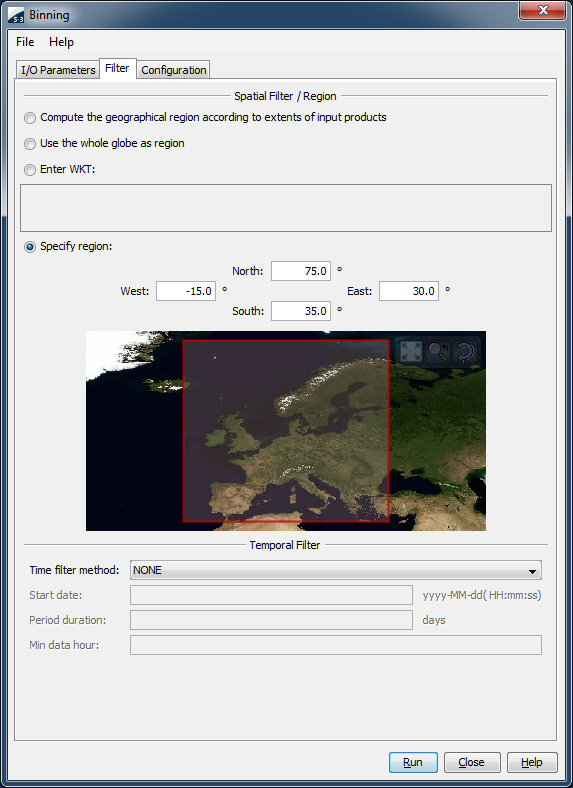
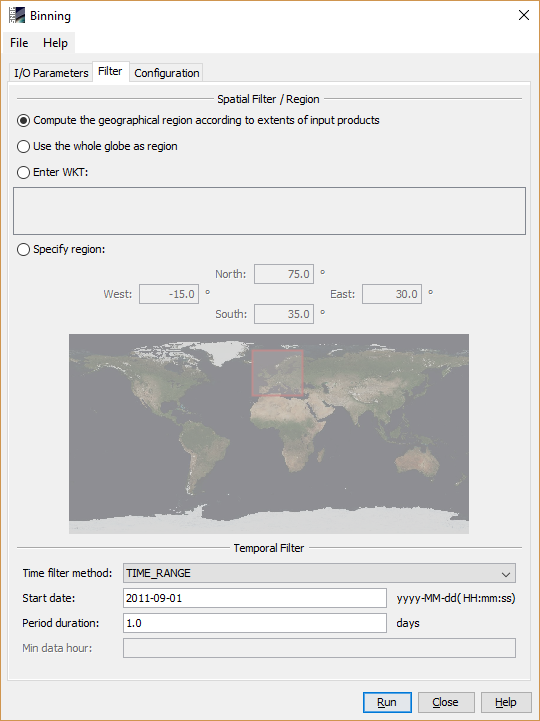
update images fo binning help and a little text update

diff --git a/snap-binning-ui/src/main/resources/org/esa/snap/binning/docs/binning/user_interface.html b/snap-binning-ui/src/main/resources/org/esa/snap/binning/docs/binning/user_interface.html
@@ -26,8 +26,9 @@
         <td class="header">&nbsp;
             Level 3 Binning Operator
         </td>
-        <td class="header" align="right"><a href="nbdocs://org.esa.snap.snap.help/org/esa/snap/snap/help/docs/general/overview/SnapOverview.html"><img src="../images/snap_header.jpg"
-                                                                                     border=0></a>
+        <td class="header" align="right"><a href="nbdocs://org.esa.snap.snap.help/org/esa/snap/snap/help/docs/general/overview/SnapOverview.html"><img
+                src="../images/snap_header.jpg"
+                border=0></a>
         </td>
     </tr>
 </table>
@@ -46,10 +47,13 @@
     <img src="images/ui-io-parameters.png">
 </p>
 
-<p>
-    When the Run-button is clicked, the binning is performed according to the preferences that are specified in the
-    "Filter-" and the "Configuration"-tabs.
-</p>
+The <b>Plus</b>-button allows to add products to the binning process.
+<ul>
+    <li><b><i>Add product(s)</i></b> - Allows to add already opened products</li>
+    <li><b><i>Add product file(s)</i></b> - Allows to add specific files from the file system</li>
+    <li><b><i>Add directory(s)</i></b> - Allows to add directory and all products within</li>
+    <li><b><i>Add directory recursively</i></b> - Allows to add all products within a directory and the sub-directories</li>
+</ul>
 
 <h4>Filter</h4>
 
@@ -98,8 +102,7 @@
     <li>SPATIOTEMPORAL_DATADAY: use a sensor-dependent, spatial "data-day" definition with the goal to minimise the tim
         between the first and last observation contributing to the same bin in the given binning period.<br>
         The decision whether a source pixel contributes to a bin or not, is a function of the pixel's observation
-        longitude
-        and time<br>
+        longitude and time<br>
         Requires the parameter 'minDataHour'.
 </ul>
 
@@ -121,11 +124,11 @@ The third tab allows the user to supply the general binning configuration. See t
     The edit button on the right hand side can be used to change to configuration of an existing aggregation definition.
 </p>
 <p>
-    The <i>Intermediate Source Bands</i> table has 3 columns: "Name", "Expression" and "Valid-Pixel Expression".
-    It allows the user to define named expressions using band arithmetic. 
-    These expression can then be used in the aggregation definition.</br/
+    The <i><b>Intermediate Source Bands</b></i> table has 3 columns: "Name", "Expression" and "Valid-Pixel Expression".
+    It allows the user to define intermediate bands which are actually not part of the source products. These bands are defined by arithmetic band
+    expressions. After defined here, they are selectable as source band for the aggregators.<br>
     The 3rd column is optional and allows to specify a valid pixel expression. If not given, it will be generated by
-    combining the valid pixel expression of all bands used. Setting it to <i>true</i> makes all pixel valid. 
+    combining the valid pixel expression of all bands referenced in the expression. Setting it to <i>true</i> makes all pixels valid.
 </p>
 
 <h5>Valid expression and target height</h5>
